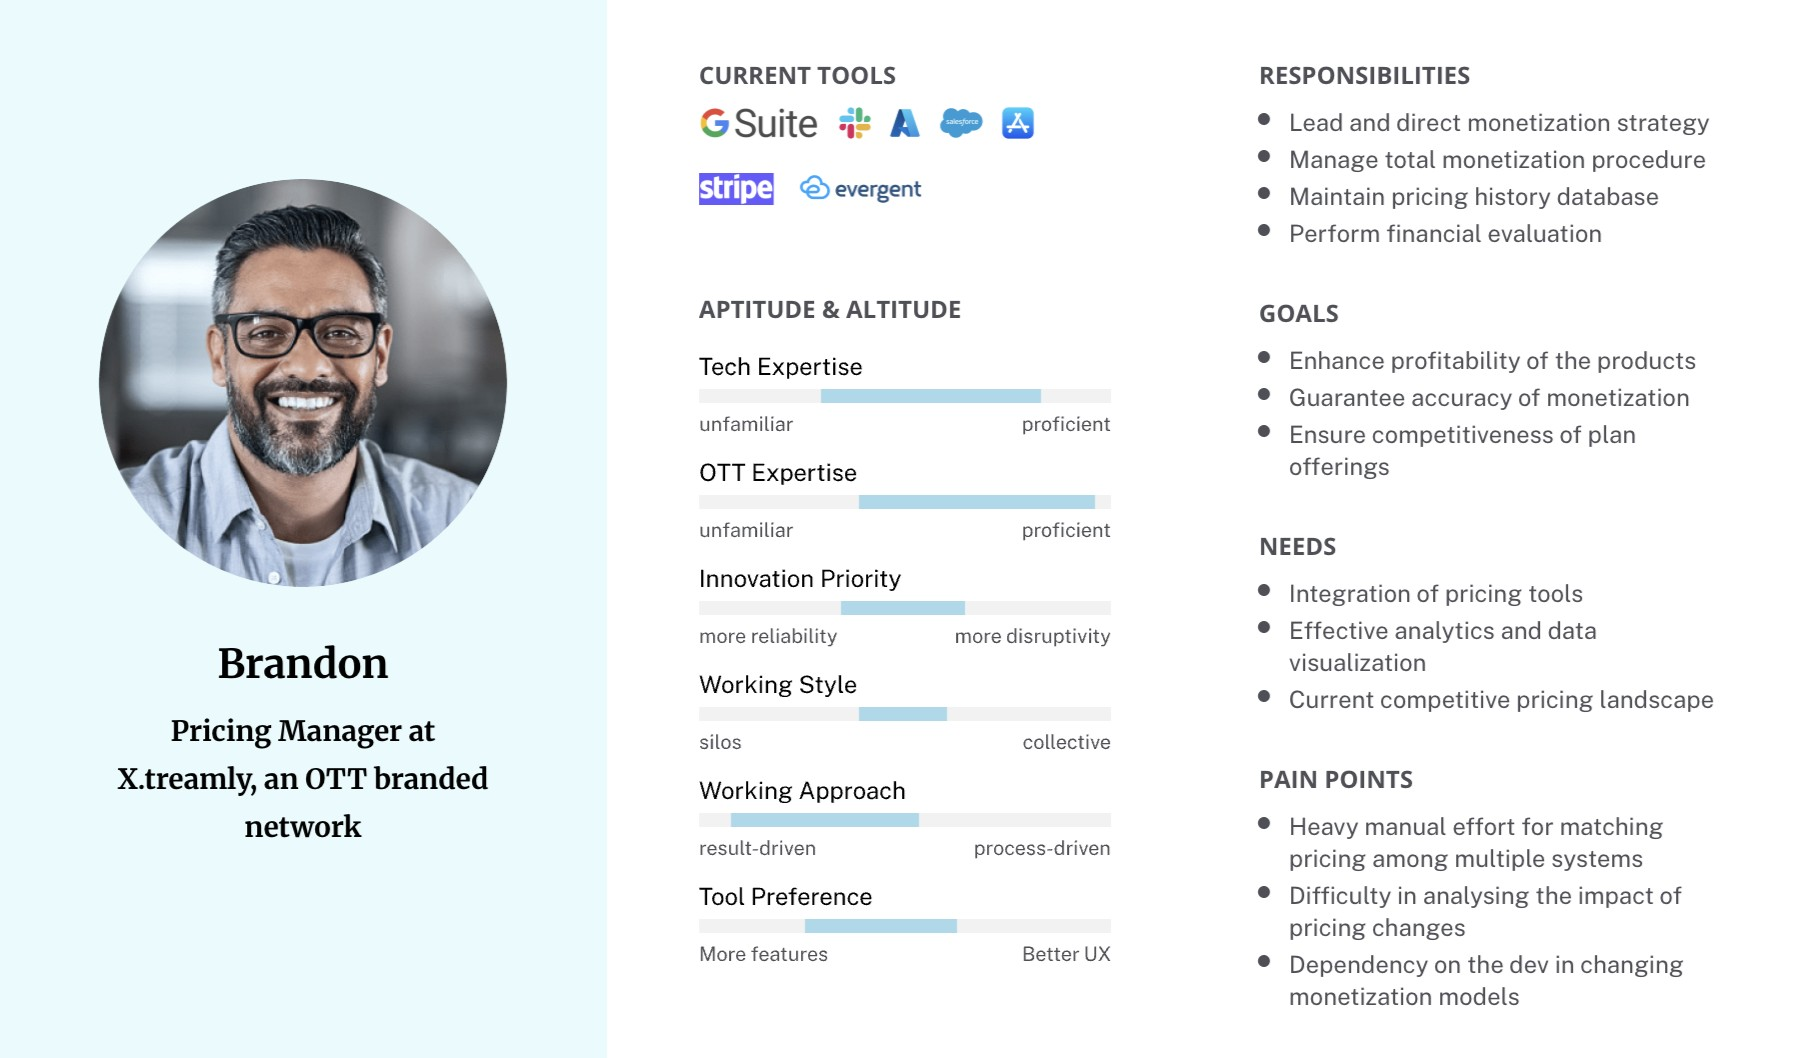
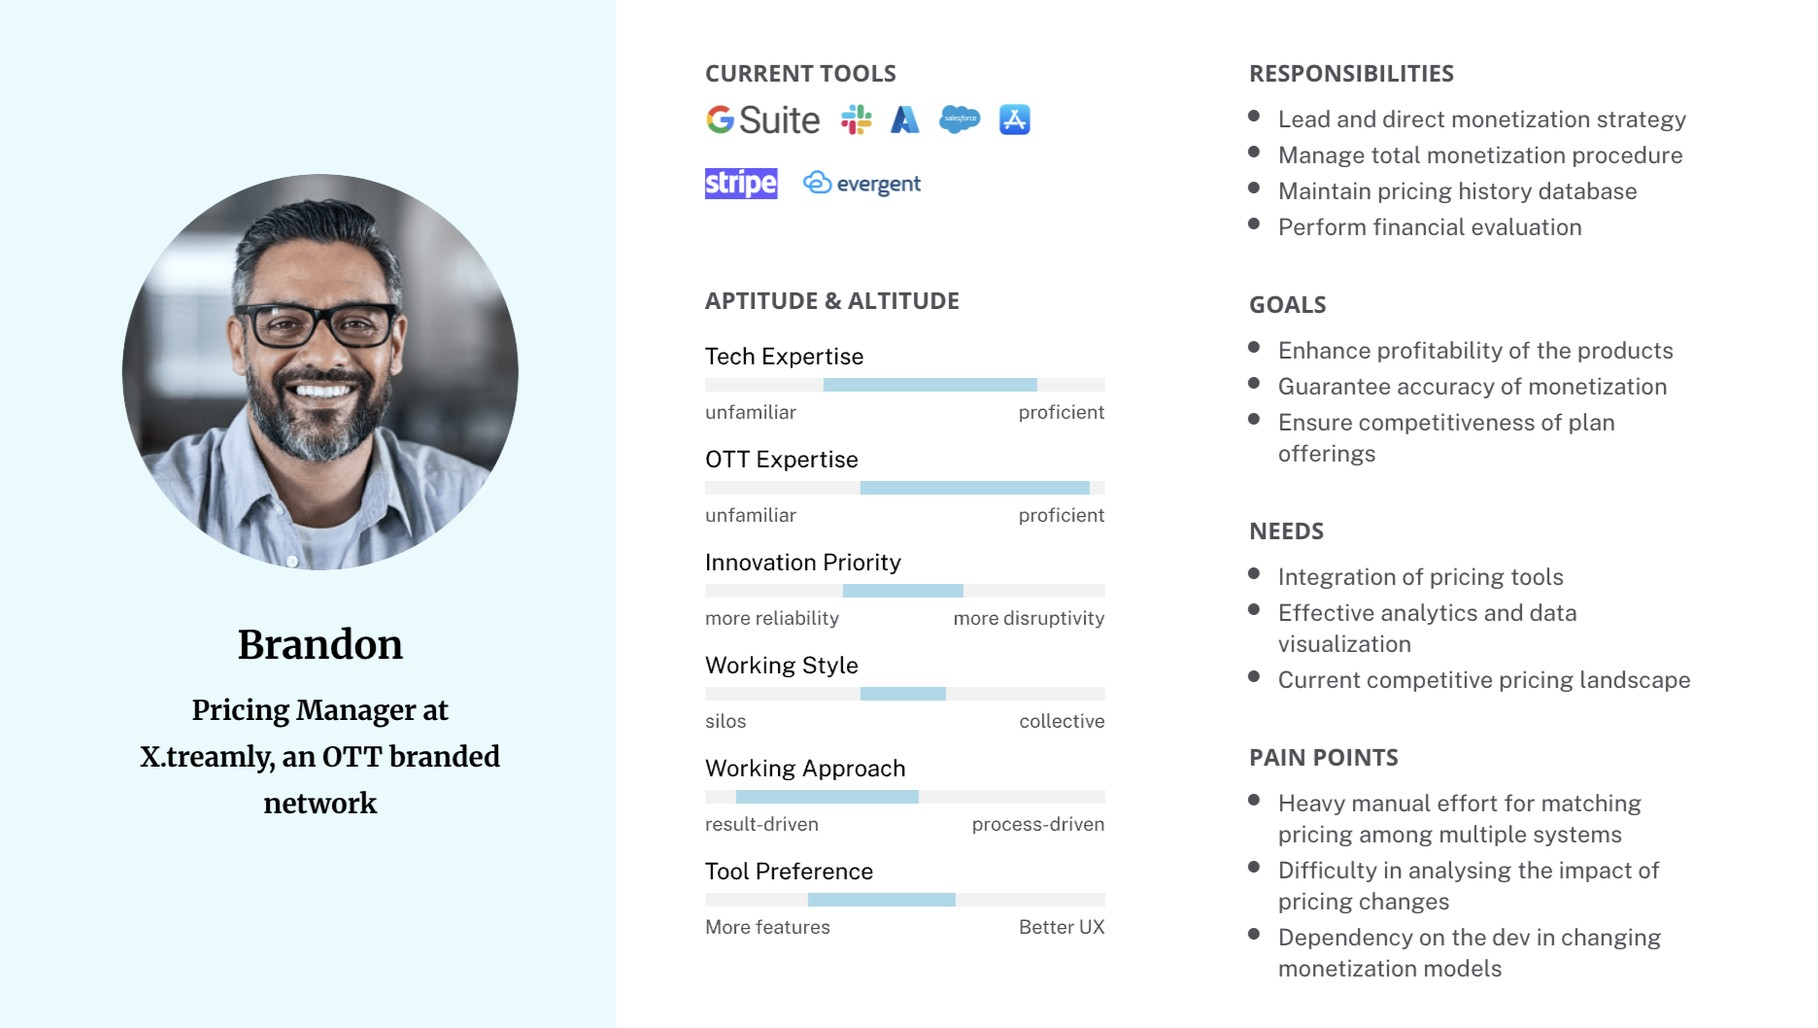
Beacon chapter 1: team map in code, personas in the opening narrative
The World of Xstream.ly and the three personas become one scrolling narrative
(Figma AI-Portfolio 164:5169). The bubble map is rebuilt as BeaconTeamMap: three
clusters around the key roles, with their links running through the gaps.
NarrativeTemplate steps take an optional visual in place of images. Case-study
labels always render all caps, and Brandon's card matches the others' size.

Claude-Session: https://claude.ai/code/session_01SwvWZcM64nxnYXoXdCMmY5

diff --git a/src/components/case-study/brightcove-beacon/BeaconTeamMap.tsx b/src/components/case-study/brightcove-beacon/BeaconTeamMap.tsx
@@ -1,0 +1,82 @@
+/**
+ * Brightcove Beacon, chapter 1: Xstream.ly's "team of teams" (Figma 114:282, the old bubble map),
+ * rebuilt in code for a 704×403 card (Figma AI-Portfolio 164:5187): three clusters, one per key role,
+ * with the links between the key roles running through the open space between them.
+ * Bubble colours are the original illustration's; they have no design-system equivalent.
+ */
+type Role = { name: string; lines: readonly string[]; fill: string; x: number; y: number; r: number };
+
+const roles: readonly Role[] = [
+  { name: "Viewers", lines: ["Viewers"], fill: "#ffffff", x: 150.0, y: 105.0, r: 49.9 },
+  { name: "Product Manager", lines: ["Product", "Manager"], fill: "#d8e1fc", x: 205.0, y: 262.0, r: 39.7 },
+  { name: "Content Producer", lines: ["Content", "Producer"], fill: "#f4d9d7", x: 352.0, y: 128.0, r: 37.8 },
+  { name: "Pricing Manager", lines: ["Pricing", "Manager"], fill: "#bee2f7", x: 505.0, y: 262.0, r: 41.0 },
+  { name: "Analytics Manager", lines: ["Analytics", "Manager"], fill: "#b0b7cd", x: 155.7, y: 211.1, r: 28.2 },
+  { name: "Customer Support", lines: ["Customer", "Support"], fill: "#b0b7cd", x: 130.7, y: 269.1, r: 32.0 },
+  { name: "Director of Product", lines: ["Director", "of Product"], fill: "#b0b7cd", x: 166.2, y: 321.3, r: 28.2 },
+  { name: "UI/UX Designer", lines: ["UI/UX", "Designer"], fill: "#b0b7cd", x: 224.9, y: 330.0, r: 28.2 },
+  { name: "Software Developers", lines: ["Software", "Developers"], fill: "#b1b8e8", x: 214.5, y: 187.9, r: 32.0 },
+  { name: "Data Analyst", lines: ["Data", "Analyst"], fill: "#b1b8e8", x: 427.5, y: 147.7, r: 28.2 },
+  { name: "Legal and Compliance", lines: ["Legal and", "Compliance"], fill: "#9cb9e4", x: 484.4, y: 191.5, r: 29.4 },
+  { name: "Media Editor", lines: ["Media", "Editor"], fill: "#ccbcba", x: 320.9, y: 77.5, r: 19.2 },
+  { name: "Integrator", lines: ["Integrator"], fill: "#ccbcba", x: 278.5, y: 94.8, r: 25.6 },
+  { name: "Writer", lines: ["Writer"], fill: "#ccbcba", x: 350.6, y: 49.2, r: 19.2 },
+  { name: "VP of Digital", lines: ["VP of", "Digital"], fill: "#ccbcba", x: 379.5, y: 75.7, r: 19.2 },
+  { name: "Architect", lines: ["Architect"], fill: "#cdbdd5", x: 278.3, y: 149.4, r: 26.9 },
+  { name: "Web Developer", lines: ["Web", "Developer"], fill: "#cdbdd5", x: 425.9, y: 89.7, r: 26.9 },
+  { name: "Sales Team", lines: ["Sales", "Team"], fill: "#9cb9e4", x: 539.9, y: 203.3, r: 24.3 },
+  { name: "Director of Marketing", lines: ["Director of", "Marketing"], fill: "#9bb8c9", x: 578.2, y: 247.0, r: 30.7 },
+  { name: "Ad Ops", lines: ["Ad Ops"], fill: "#9bb8c9", x: 457.2, y: 307.1, r: 21.8 },
+  { name: "Finance Department", lines: ["Finance", "Department"], fill: "#9bb8c9", x: 503.4, y: 335.4, r: 29.4 },
+  { name: "Business Development", lines: ["Business", "Development"], fill: "#9bb8c9", x: 563.1, y: 311.0, r: 32.0 },
+];
+
+/** The three key roles; thick dashed links join them, thin dotted links reach their shared teams. */
+const key = ["Product Manager", "Content Producer", "Pricing Manager"];
+const strong = [["Product Manager", "Content Producer"], ["Content Producer", "Pricing Manager"], ["Product Manager", "Pricing Manager"]] as const;
+const weak = [
+  ["Product Manager", "Software Developers"], ["Product Manager", "Data Analyst"], ["Product Manager", "Legal and Compliance"], ["Product Manager", "Ad Ops"],
+  ["Content Producer", "Web Developer"], ["Content Producer", "Data Analyst"],
+  ["Pricing Manager", "Legal and Compliance"], ["Pricing Manager", "Ad Ops"],
+] as const;
+
+const at = (name: string) => roles.find(role => role.name === name)!;
+const ink = "#2f3447";
+
+/** A link from the edge of one bubble to the edge of the other, so it never runs through an end's label. */
+function edges(a: string, b: string) {
+  const from = at(a), to = at(b);
+  const length = Math.hypot(to.x - from.x, to.y - from.y);
+  const ux = (to.x - from.x) / length, uy = (to.y - from.y) / length;
+  return { x1: from.x + ux * from.r, y1: from.y + uy * from.r, x2: to.x - ux * to.r, y2: to.y - uy * to.r };
+}
+
+function Links({ stroke }: { stroke: string }) {
+  return <>
+    {weak.map(([a, b]) => <line key={a + b} {...edges(a, b)} stroke={stroke} strokeOpacity={0.6} strokeWidth={0.75} strokeDasharray="1.5 2" />)}
+    {strong.map(([a, b]) => <line key={a + b} {...edges(a, b)} stroke={stroke} strokeWidth={1.75} strokeDasharray="4 3" />)}
+  </>;
+}
+
+export function BeaconTeamMap() {
+  return (
+    <svg viewBox="0 0 704 403" role="img" aria-label="Xstream.ly's team of teams: the product, content and pricing managers at the centre of clusters of internal and external roles, with viewers alongside" className="block h-auto w-full bg-surface font-sans">
+      <defs>
+        <clipPath id="beacon-team-bubbles">{roles.map(role => <circle key={role.name} cx={role.x} cy={role.y} r={role.r} />)}</clipPath>
+      </defs>
+      {/* Links run white across the background, then again in the label colour over the bubbles, so each stays visible end to end. */}
+      <Links stroke="white" />
+      {roles.map(role => <circle key={role.name} cx={role.x} cy={role.y} r={role.r} fill={role.fill} />)}
+      <g clipPath="url(#beacon-team-bubbles)" opacity={0.55}><Links stroke={ink} /></g>
+      {roles.map(role => {
+        const bold = key.includes(role.name) || role.name === "Viewers";
+        const size = bold ? 11 : 9.5;
+        return <g key={role.name}>
+          <text x={role.x} textAnchor="middle" fontSize={size} fontWeight={bold ? 600 : 400} fill={ink} stroke={role.fill} strokeWidth={3} strokeLinejoin="round" paintOrder="stroke">
+            {role.lines.map((line, i) => <tspan key={line} x={role.x} y={role.y + (i - (role.lines.length - 1) / 2) * size * 1.2 + size * 0.35}>{line}</tspan>)}
+          </text>
+        </g>;
+      })}
+    </svg>
+  );
+}

diff --git a/src/content/case-study/brightcoveBeacon.ts b/src/content/case-study/brightcoveBeacon.ts
@@ -2,7 +2,6 @@ import type { ImageRef } from "@/content/types";
 import type { IntroData } from "@/components/case-study/templates/IntroTemplate";
 import type { SimpleSectionData } from "@/components/case-study/templates/SimpleSectionTemplate";
 import type { NarrativeData } from "@/components/case-study/templates/NarrativeTemplate";
-import type { HorizontalSlidesData } from "@/components/case-study/templates/HorizontalSlidesTemplate";
 import type { PersonaTasksData } from "@/components/case-study/shared/PersonaTasks";
 import type { NarrativeImage } from "@/components/case-study/templates/NarrativeTemplate";
 import type { ImpactData } from "@/components/case-study/templates/ImpactTemplate";
@@ -41,17 +40,52 @@ export const brightcoveBeaconImpact = {
 
 const img = (name: string, alt: string, width: number, height: number): ImageRef => ({ src: `/case-studies/brightcove-beacon/${name}`, alt, width, height });
 
-/** Chapter 1, "The World of Xstream.ly" (Figma 114:282): static text beside the team map, no card border (the source image of 117:325, transparent background). */
+/**
+ * Chapter 1 opener (Figma AI-Portfolio 164:5169, "Rolling artifacts"): the world of Xstream.ly, then its
+ * three key roles, as one scrolling narrative. The team map is `BeaconTeamMap` (code);
+ * the personas are full-width cards (2x exports of 114:2425, 114:2579 and Brandon's new card).
+ */
 export const brightcoveBeaconContext = {
   label: "The World of Xstream.ly",
-  imageLayout: "plain",
-  steps: [{
-    id: "beacon-context",
-    title: "The World of Xstream.ly",
-    body:
-      "Xstream.ly is a video streaming company with the goal of growing audience with engaging content. The company operates with a 'team of teams' structure, involving extensive cross-team collaborations with various internal and external roles.",
-    images: [img("xstreamly-world.png", "Xstream.ly's team of teams: internal and external roles clustered around the company", 2880, 1438)],
-  }],
+  imageLayout: "separate",
+  steps: [
+    {
+      id: "beacon-context",
+      title: "The World of Xstream.ly",
+      body:
+        "Xstream.ly is a video streaming company with the goal of growing audience with engaging content. The company operates with a 'team of teams' structure, involving extensive cross-team collaborations with various internal and external roles.",
+      // Visual: `BeaconTeamMap`, the bubble map rebuilt in code (set where the page renders this narrative).
+    },
+    {
+      id: "persona-laurel",
+      title: "Laurel, Product Manager",
+      body: "“I am a trailblazer who takes others with me, like it or not!”",
+      images: [img(
+        "persona-laurel-card.jpg",
+        "Persona card for Laurel, Product Manager at Xstream.ly: current tools, aptitude and altitude, responsibilities, goals, needs and pain points",
+        1818, 1028,
+      )],
+    },
+    {
+      id: "persona-sharyn",
+      title: "Sharyn, Content Producer",
+      body: "“I always thrive to give the best for producing engaging videos.”",
+      images: [img(
+        "persona-sharyn.jpg",
+        "Persona card for Sharyn, Content Producer at Xstream.ly: current tools, aptitude and altitude, responsibilities, goals, needs and pain points",
+        1818, 1028,
+      )],
+    },
+    {
+      id: "persona-brandon",
+      title: "Brandon, Pricing Manager",
+      images: [img(
+        "persona-brandon-card.jpg",
+        "Persona card for Brandon, Pricing Manager at Xstream.ly: current tools, aptitude and altitude, responsibilities, goals, needs and pain points",
+        1818, 1028,
+      )],
+    },
+  ],
 } satisfies NarrativeData;
 
 /** Customer problem (Figma 114:2736): a centred section title over two columns of copy; `[...]` marks the highlighted phrases. */
@@ -62,43 +96,6 @@ export const brightcoveBeaconProblem = {
     { title: "Manual content work", body: "The sheer amount of [manual work] in curating, publishing, and monetizing video content greatly [reduces efficiency]." },
   ],
 } as const;
-
-/** Key roles (Figma 114:2411): one slide per persona card (2x exports of 114:2425 and 114:2579, background cropped off; the template rounds the corners). */
-export const brightcoveBeaconRoles = {
-  label: "There are 3 key roles involved",
-  compact: true,
-  slides: [
-    {
-      id: "persona-laurel",
-      title: "Laurel, Product Manager",
-      body: "“I am a trailblazer who takes others with me, like it or not!”",
-      image: img(
-        "persona-laurel-card.jpg",
-        "Persona card for Laurel, Product Manager at Xstream.ly: current tools, aptitude and altitude, responsibilities, goals, needs and pain points",
-        1818, 1028,
-      ),
-    },
-    {
-      id: "persona-sharyn",
-      title: "Sharyn, Content Producer",
-      body: "“I always thrive to give the best for producing engaging videos.”",
-      image: img(
-        "persona-sharyn.jpg",
-        "Persona card for Sharyn, Content Producer at Xstream.ly: current tools, aptitude and altitude, responsibilities, goals, needs and pain points",
-        1818, 1028,
-      ),
-    },
-    {
-      id: "persona-brandon",
-      title: "Brandon, Pricing Manager",
-      image: img(
-        "persona-brandon-card.jpg",
-        "Persona card for Brandon, Pricing Manager at Xstream.ly: current tools, aptitude and altitude, responsibilities, goals, needs and pain points",
-        1818, 1058,
-      ),
-    },
-  ],
-} satisfies HorizontalSlidesData;
 
 /** Job mapping (Figma 114:2763), over the job map (2x export, cropped). */
 export const brightcoveBeaconJobMap = {

diff --git a/src/app/work/[slug]/page.tsx b/src/app/work/[slug]/page.tsx
@@ -12,6 +12,7 @@ import { CaseIntroTemplate } from "@/components/case-study/templates/CaseIntroTe
 import { MediaRowTemplate } from "@/components/case-study/templates/MediaRowTemplate";
 import { TwoColumnTextTemplate, type TwoColumnTextData } from "@/components/case-study/templates/TwoColumnTextTemplate";
 import { StoryTextBlock } from "@/components/case-study/shared/StoryTextBlock";
+import { BeaconTeamMap } from "@/components/case-study/brightcove-beacon/BeaconTeamMap";
 import { FollowUpTemplate } from "@/components/case-study/templates/FollowUpTemplate";
 import { SimpleSectionTemplate } from "@/components/case-study/templates/SimpleSectionTemplate";
 import { ImpactTemplate } from "@/components/case-study/templates/ImpactTemplate";
@@ -69,7 +70,6 @@ import {
   brightcoveBeaconJobMap,
   brightcoveBeaconJobMapImage,
   brightcoveBeaconProblem,
-  brightcoveBeaconRoles,
 } from "@/content/case-study/brightcoveBeacon";
 import { getProject, getProjects } from "@/content";
 import { site } from "@/content/site";
@@ -195,7 +195,8 @@ async function CaseStudyContent({ params }: PageProps<"/work/[slug]">) {
           <ImpactTemplate {...brightcoveBeaconImpact} className="mt-24" />
           <section aria-labelledby="beacon-users">
             <CaseStudyChapterHeader id="beacon-users">01 _ USERS AND WORKFLOWS</CaseStudyChapterHeader>
-            <NarrativeTemplate {...brightcoveBeaconContext} steps={brightcoveBeaconContext.steps.map(step => ({ ...step, text: <StoryTextBlock title={step.title} body={step.body} /> }))} />
+            {/* The opener keeps the large story title; the persona steps use the narrative's section title. */}
+            <NarrativeTemplate {...brightcoveBeaconContext} steps={brightcoveBeaconContext.steps.map((step, i) => i ? step : { ...step, text: <StoryTextBlock title={step.title} body={step.body} />, visual: <BeaconTeamMap /> })} />
             <ScrollReveal as="hr" className="border-line" />
             <TwoColumnTextTemplate
               title={brightcoveBeaconProblem.title}
@@ -204,8 +205,6 @@ async function CaseStudyContent({ params }: PageProps<"/work/[slug]">) {
                 text: <p className="type-body-m text-secondary">{body.split(/\[(.+?)\]/).map((part, i) => i % 2 ? <strong key={i} className="font-normal text-primary">{part}</strong> : part)}</p>,
               })) as unknown as TwoColumnTextData["columns"]}
             />
-            <ScrollReveal as="hr" className="border-line" />
-            <HorizontalSlidesTemplate {...brightcoveBeaconRoles} />
             {([
               [brightcoveBeaconJobMap, brightcoveBeaconJobMapImage],
               [brightcoveBeaconInfoArch, brightcoveBeaconInfoArchImage],

diff --git a/src/components/case-study/templates/NarrativeTemplate.tsx b/src/components/case-study/templates/NarrativeTemplate.tsx
@@ -26,6 +26,8 @@ export type NarrativeStep = {
   /** Replaces this step's label, title and body with any component (see `StoryTextBlock`). */
   text?: ReactNode;
   images?: readonly NarrativeImage[];
+  /** Replaces this step's images with any component (e.g. a diagram built in code), framed like a `separate` image. */
+  visual?: ReactNode;
   /** `screens` layout: phone screenshots in columns, each column after the first set lower. */
   columns?: readonly (readonly NarrativeImage[])[];
   /** Optional text action that opens the first image's high-resolution view. */
@@ -67,7 +69,7 @@ export function NarrativeTemplate({ label, steps, imageLayout = "joined" }: Narr
   // Pill-labelled images read as blocks: 16px pill to image, 32px within a step, 64px between steps.
   const labelled = allImages.some(image => image.pill);
   // One image: nothing to scroll through, so the text stays put, vertically centred on the image.
-  const single = allImages.length === 1 && !screens;
+  const single = allImages.length + steps.filter(s => s.visual).length === 1 && !screens;
 
   function open(button: HTMLButtonElement, title: string, image: NarrativeImage) {
     if (!image.full) return;
@@ -93,6 +95,7 @@ export function NarrativeTemplate({ label, steps, imageLayout = "joined" }: Narr
                 <StoryTextBlock heading="section" label={s.label} title={s.title} body={s.body} text={s.text} />
               </ScrollReveal>
               {screens ? <ScreenColumns columns={s.columns ?? [imagesOf(s)]} /> : <div className={imageLayout === "separate" ? `flex flex-col ${labelled ? "gap-8" : "gap-4"}` : ""}>
+                {s.visual && <ScrollReveal><div className="overflow-hidden rounded-image border border-border-default">{s.visual}</div></ScrollReveal>}
                 {imagesOf(s).map(image => (
                   <NarrativeFrame
                     key={image.src}

diff --git a/src/components/case-study/shared/caseStudy.css b/src/components/case-study/shared/caseStudy.css
@@ -22,7 +22,8 @@
 /* A section within a chapter. Consecutive sections: 96px, separator, 96px (Figma 83:3259). */
 .cs-section { margin-block: var(--cs-section-gap); }
 .cs-section + .cs-section { padding-top: var(--cs-section-gap); border-top: 1px solid var(--color-line); }
-.cs-chapter-label { color: var(--cs-secondary); line-height: var(--cs-small-line-height); }
+/* Labels above titles are always all caps; content can be written in any case. */
+.cs-chapter-label { color: var(--cs-secondary); line-height: var(--cs-small-line-height); text-transform: uppercase; }
 .cs-chapter-divider { margin-top: var(--cs-title-description-gap); border: 0; border-top: 1px dotted var(--color-line-strong); }
 .cs-story-title { font-size: var(--cs-story-title-size); font-weight: 400; }
 .cs-template-preview { max-width: 1302px; margin-inline: auto; padding: calc(var(--spacing) * 16); }

diff --git a/docs/case-study-templates.md b/docs/case-study-templates.md
@@ -71,6 +71,7 @@ Text components for the slot live in `shared/`:
 
 - `PersonaQuote` (Figma `43:348`): 48px round avatar over the persona name (chapter-label type, uppercase, one word per line, as wide as its longest word), left-aligned, 12px beside the quote (`caseStudyType.quote` = `type-body-m-italic`, primary). Used by Reimagining Analytics final design (`reimaginingAnalyticsFinalDesign`, `SimpleSectionTemplate` with `align: "left"` and `inset`); at the 561px left text width the quote runs about as tall as avatar and name.
 
+- `brightcove-beacon/BeaconTeamMap` (Figma `114:282`, laid out for AI-Portfolio `164:5187`): Xstream.ly's team of teams as an SVG bubble map filling a 704×403 card; the opener step's `visual` in `brightcoveBeaconContext`. Bubble colours are the original illustration's.
 - `PersonaTasks` (Figma `114:2259`): one workflow step's people (48px round avatar, name in Label S, role in Body S secondary), an optional handoff note (Body XS secondary), then their tasks as `muted` Pills. Used by Brightcove Beacon "How They Collaborate?" as each `NarrativeTemplate` step's `text` (`brightcoveBeaconCollaborationFlow`, `separate`).
 
 ## SimpleSectionTemplate
@@ -154,13 +155,13 @@ The one text block for case-study copy: optional label, title, body. Two switche
 | `label` | Omit for no label; Body XS secondary, 12px above the title |
 | `heading` | `chapter` (default): Display 32 Regular title. `section`: Heading M title |
 
-Title to body is 16px under a chapter title and 12px under a section title. Width belongs to the caller (400 for chapter text, the grid column for section text). Used by `SimpleSectionTemplate`, `TwoColumnTextTemplate`, `TellMeAboutIt` (chapter) and `NarrativeTemplate`, `HorizontalSlidesTemplate` (section).
+The optional label above the title is always rendered all caps (`.cs-chapter-label`), whatever case the content uses. Title to body is 16px under a chapter title and 12px under a section title. Width belongs to the caller (400 for chapter text, the grid column for section text). Used by `SimpleSectionTemplate`, `TwoColumnTextTemplate`, `TellMeAboutIt` (chapter) and `NarrativeTemplate`, `HorizontalSlidesTemplate` (section).
 
 ## NarrativeTemplate
 
 `templates/NarrativeTemplate.tsx` · Figma `83:3560` (joined), `116:667` (separate), `89:5173` (plain), `94:5545` (screens) · Preview `/case-study-templates/narrative`
 
-Text pinned on the left (320) beside images on the right (704), 128px apart. Contract: `label`, `steps: [{ id, title, body, images, details? }]`, each image `{ src, alt, width, height, full? }`, plus `imageLayout`:
+Text pinned on the left (320) beside images on the right (704), 128px apart. Contract: `label`, `steps: [{ id, title, body, images, visual?, details? }]`; `visual` replaces a step's images with any component (e.g. a diagram built in code), framed like a `separate` image, each image `{ src, alt, width, height, full? }`, plus `imageLayout`:
 
 | Steps | Text |
 | --- | --- |
